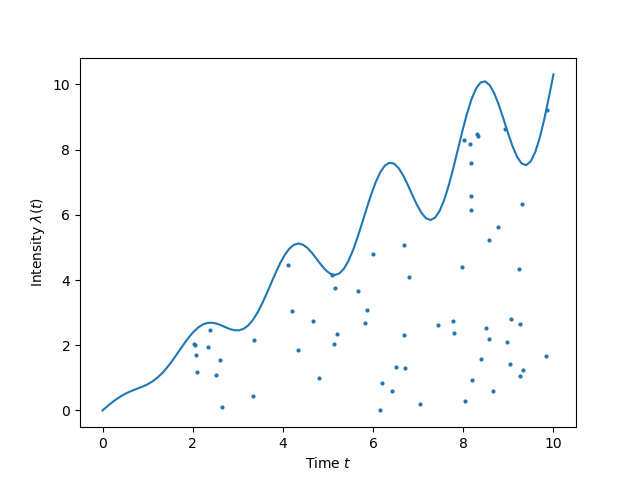
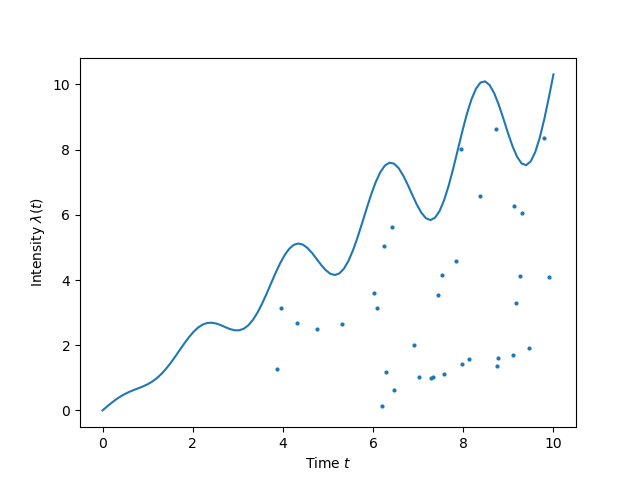
update example with max likelihood estimation and plot

diff --git a/pylib/examples/pptest.py b/pylib/examples/pptest.py
@@ -1,3 +1,4 @@
+from matplotlib import pyplot as plt
 import numpy as np
 import pointprocesses as pp
 
@@ -5,21 +6,30 @@ import pointprocesses as pp
 def intensity(x):
     return x*(1+0.2*np.cos(3*x))
 
-tmax = 10.0
 max_lbda = 12.0
 
-res = pp.poisson_process(tmax, 1.5)
+def max_likelihood_est(processes, tmax):
+    return np.array([len(p) for p in processes]).mean()/tmax
+
+
+tmax = 2.0
+lbda = 2.1
+res = pp.poisson_process(tmax, lbda)
 print("Homogeneous process")
 print(res)
-print("number of events:", res.shape)
-print("============")
+print("number of events:", res.shape[0])
 
+processes = [pp.poisson_process(tmax, lbda) for _ in range(100)]
+print("Parameter estimation:", max_likelihood_est(processes, tmax))
+print("============", end='\n')
+
+
+tmax = 10.0
 res = pp.variable_poisson(tmax, intensity, max_lbda)
 print("Variable process")
 print(res)
-print("number of events:", res.shape)
+print("number of events:", res.shape[0])
 
-from matplotlib import pyplot as plt
 plt.figure()
 plt.xlabel("Time $t$")
 plt.ylabel(r"Intensity $\lambda(t)$")

diff --git a/pylib/README.md b/pylib/README.md
@@ -15,3 +15,10 @@ python setup.py install
 ```
 
 Check it works by importing it inside a Python terminal, outside of this directory, else Python will import the local `pointprocesses` module which isn't loaded with the library.
+
+```python
+import numpy as np
+import pointprocesses as pp
+```
+
+There's a working example in the `examples/` directory. If there's a problem, report it! 😄
